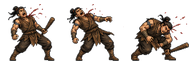
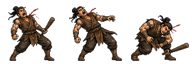
Clean task41 thug pilot fragments

diff --git a/tools/qa_task41_sprite_sheet.py b/tools/qa_task41_sprite_sheet.py
@@ -1,0 +1,109 @@
+#!/usr/bin/env python3
+import argparse
+from pathlib import Path
+from PIL import Image, ImageDraw
+
+
+ANIMS = ["idle", "attack", "hurt", "death"]
+
+
+def components(alpha, threshold=8):
+    w, h = alpha.size
+    pix = alpha.load()
+    seen = set()
+    comps = []
+    for y in range(h):
+        for x in range(w):
+            if pix[x, y] <= threshold or (x, y) in seen:
+                continue
+            stack = [(x, y)]
+            seen.add((x, y))
+            xs = []
+            ys = []
+            while stack:
+                px, py = stack.pop()
+                xs.append(px)
+                ys.append(py)
+                for nx in (px - 1, px, px + 1):
+                    for ny in (py - 1, py, py + 1):
+                        if nx < 0 or ny < 0 or nx >= w or ny >= h or (nx, ny) in seen:
+                            continue
+                        if pix[nx, ny] > threshold:
+                            seen.add((nx, ny))
+                            stack.append((nx, ny))
+            comps.append({"area": len(xs), "bbox": (min(xs), min(ys), max(xs) + 1, max(ys) + 1)})
+    comps.sort(key=lambda c: c["area"], reverse=True)
+    return comps
+
+
+def edge_alpha(alpha):
+    w, h = alpha.size
+    vals = [alpha.getpixel((x, 0)) for x in range(w)]
+    vals += [alpha.getpixel((x, h - 1)) for x in range(w)]
+    vals += [alpha.getpixel((0, y)) for y in range(h)]
+    vals += [alpha.getpixel((w - 1, y)) for y in range(h)]
+    return max(vals) if vals else 0
+
+
+def main():
+    ap = argparse.ArgumentParser()
+    ap.add_argument("--dir", required=True, help="Directory containing idle/attack/hurt/death PNG sheets")
+    ap.add_argument("--out", required=True, help="Output 2x preview PNG")
+    ap.add_argument("--max-small-components", type=int, default=1)
+    ap.add_argument("--small-area", type=int, default=18)
+    args = ap.parse_args()
+
+    root = Path(args.dir)
+    sheets = []
+    max_frames = 0
+    problems = []
+    report = []
+    for anim in ANIMS:
+        p = root / f"{anim}.png"
+        if not p.exists():
+            problems.append(f"missing {p}")
+            continue
+        im = Image.open(p).convert("RGBA")
+        if im.height <= 0 or im.width % im.height:
+            problems.append(f"bad sheet dimensions {p}: {im.size}")
+            continue
+        fw = im.height
+        frames = []
+        for i in range(im.width // fw):
+            fr = im.crop((i * fw, 0, (i + 1) * fw, fw))
+            alpha = fr.getchannel("A")
+            comps = components(alpha)
+            small = [c for c in comps[1:] if c["area"] <= args.small_area]
+            if not alpha.getbbox():
+                problems.append(f"blank frame {p}#{i}")
+            if edge_alpha(alpha):
+                problems.append(f"edge alpha {p}#{i}: {edge_alpha(alpha)}")
+            if len(small) > args.max_small_components:
+                problems.append(f"loose fragments {p}#{i}: {len(small)} small components")
+            report.append(f"{anim}#{i}: comps={len(comps)} small={len(small)} bbox={alpha.getbbox()}")
+            frames.append(fr)
+        sheets.append((anim, frames))
+        max_frames = max(max_frames, len(frames))
+
+    cell = 148
+    label_w = 88
+    out = Image.new("RGBA", (label_w + cell * max(1, max_frames), cell * len(sheets)), (238, 235, 224, 255))
+    draw = ImageDraw.Draw(out)
+    for row, (anim, frames) in enumerate(sheets):
+        y = row * cell
+        draw.text((8, y + 58), anim, fill=(25, 22, 18, 255))
+        for i, fr in enumerate(frames):
+            fr2 = fr.resize((fr.width * 2, fr.height * 2), Image.Resampling.NEAREST)
+            out.alpha_composite(fr2, (label_w + i * cell + 10, y + 10))
+            draw.text((label_w + i * cell + 10, y + 136), str(i), fill=(25, 22, 18, 255))
+    out.save(args.out)
+
+    print("problems", len(problems))
+    for p in problems:
+        print(p)
+    for line in report:
+        print(line)
+
+
+if __name__ == "__main__":
+    main()

diff --git a/tools/cut_task41_thug_sheet.py b/tools/cut_task41_thug_sheet.py
@@ -49,6 +49,42 @@ def white_to_alpha(im):
     return im
 
 
+def remove_small_fragments(im, min_area=20):
+    alpha = im.getchannel("A")
+    w, h = im.size
+    pix = alpha.load()
+    seen = set()
+    comps = []
+    for y in range(h):
+        for x in range(w):
+            if pix[x, y] <= 8 or (x, y) in seen:
+                continue
+            stack = [(x, y)]
+            seen.add((x, y))
+            pts = []
+            while stack:
+                px, py = stack.pop()
+                pts.append((px, py))
+                for nx in (px - 1, px, px + 1):
+                    for ny in (py - 1, py, py + 1):
+                        if nx < 0 or ny < 0 or nx >= w or ny >= h or (nx, ny) in seen:
+                            continue
+                        if pix[nx, ny] > 8:
+                            seen.add((nx, ny))
+                            stack.append((nx, ny))
+            comps.append(pts)
+    keep = set()
+    for pts in comps:
+        if len(pts) >= min_area:
+            keep.update(pts)
+    out = Image.new("RGBA", im.size, (0, 0, 0, 0))
+    src = im.load()
+    dst = out.load()
+    for x, y in keep:
+        dst[x, y] = src[x, y]
+    return out
+
+
 def strip_edge_alpha(im):
     px = im.load()
     w, h = im.size
@@ -62,7 +98,7 @@ def strip_edge_alpha(im):
 
 
 def fit_frame(crop, size=64, pad=3):
-    crop = white_to_alpha(crop)
+    crop = remove_small_fragments(white_to_alpha(crop))
     bbox = crop.getchannel("A").getbbox()
     out = Image.new("RGBA", (size, size), (0, 0, 0, 0))
     if not bbox:
@@ -73,7 +109,7 @@ def fit_frame(crop, size=64, pad=3):
     nh = max(1, int(spr.height * scale))
     spr = spr.resize((nw, nh), Image.Resampling.LANCZOS)
     out.alpha_composite(spr, ((size - nw) // 2, size - pad - nh))
-    return strip_edge_alpha(out)
+    return strip_edge_alpha(remove_small_fragments(out))
 
 
 def join(frames):
